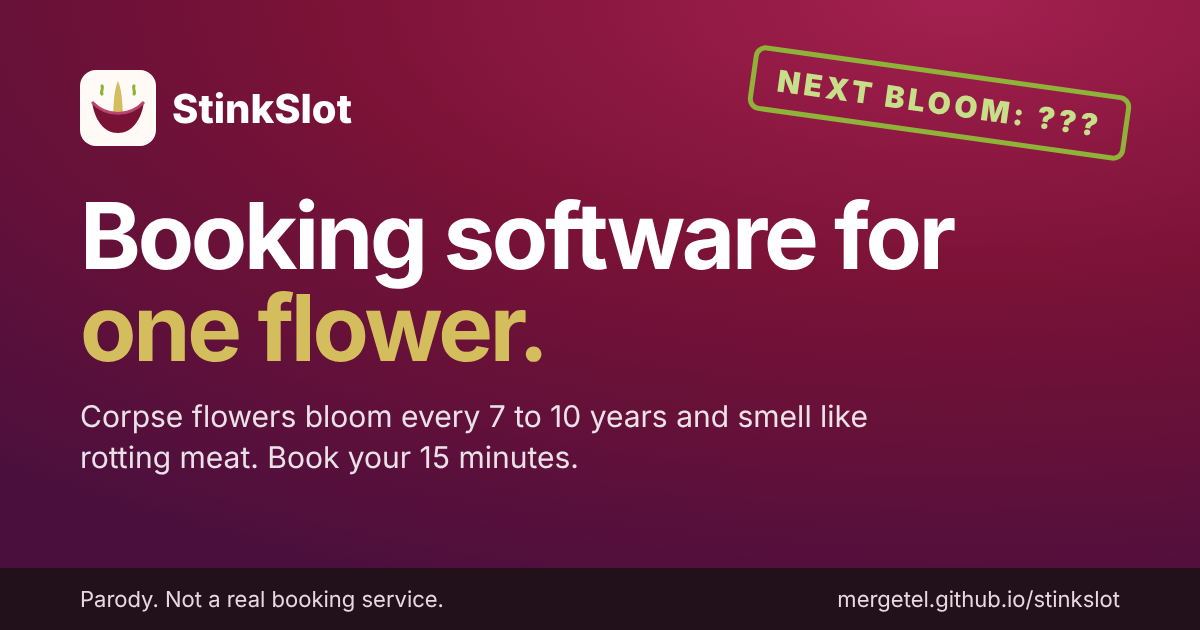
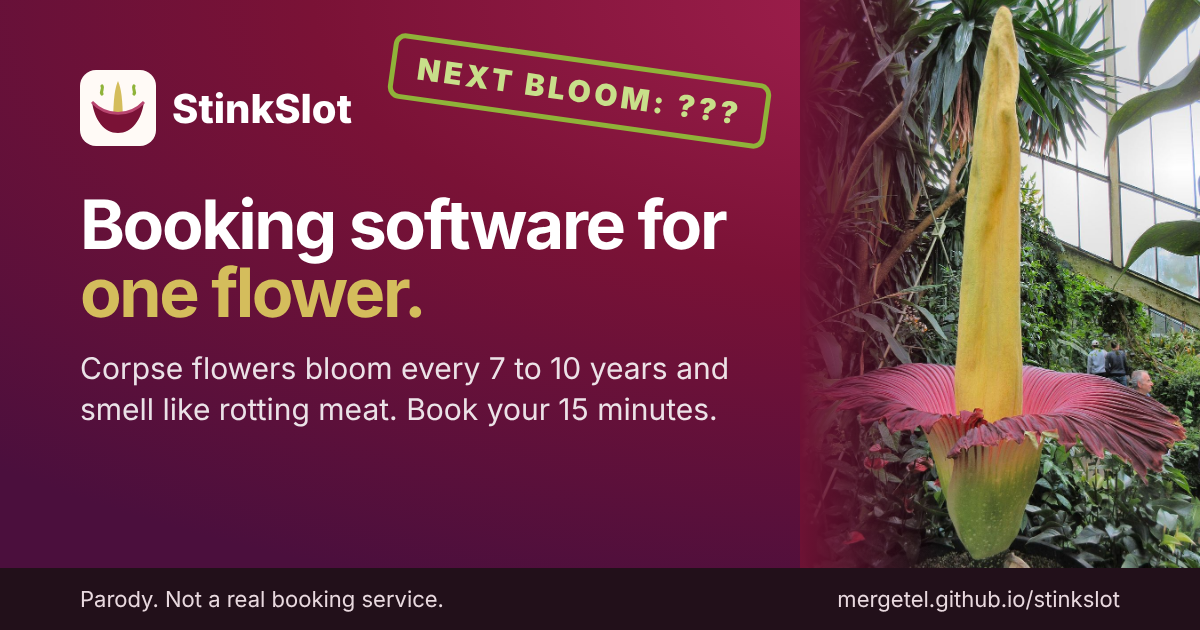
Add CC0 corpse flower photos from Wikimedia Commons
Hero, booking banner, How it works cards, the status page leaf incident and
the share image now use real photos. The footer and README credit each one.

Claude-Session: https://claude.ai/code/session_01SSK7fZCV5KX3RoiVLQUKzE

diff --git a/index.html b/index.html
@@ -14,8 +14,15 @@
 <link rel="stylesheet" href="assets/site.css">
 <style>
   .hero { padding: 64px 0 40px; }
-  .hero-grid { display: grid; grid-template-columns: 1.15fr .85fr; gap: 40px; align-items: center; }
+  .hero-grid { display: grid; grid-template-columns: 1.1fr .9fr; gap: 56px; align-items: center; }
   .hero .ctas { display: flex; flex-wrap: wrap; gap: 12px; }
+
+  /* Hero photo */
+  .hero-art { position: relative; }
+  .hero-photo { position: relative; margin: 0; }
+  .hero-photo img { display: block; width: 100%; height: auto; aspect-ratio: 2 / 3; object-fit: cover; object-position: 50% 50%; border-radius: 24px; box-shadow: 0 30px 60px rgba(75, 15, 61, .22); }
+  .not-barb { position: absolute; top: 14px; right: 14px; padding: 5px 11px; border-radius: 999px; background: rgba(255, 250, 246, .92); color: var(--text); font-size: 13px; font-weight: 600; }
+  .hero .live { margin-top: 36px; max-width: 560px; }
 
   /* Barb, right now */
   .live { position: relative; padding: 22px; border-radius: 22px; color: #fbeff3; background: radial-gradient(120% 90% at 50% 0%, #a3204f 0%, var(--brand) 45%, var(--brand-2) 100%); box-shadow: 0 30px 60px rgba(75, 15, 61, .28); overflow: hidden; }
@@ -32,6 +39,11 @@
   .live dd { margin: 2px 0 0; font-weight: 700; font-variant-numeric: tabular-nums; }
   .live dd small { display: block; font-weight: 500; opacity: .7; font-size: 12.5px; }
   .live .fine { color: rgba(251, 239, 243, .7); margin: 0; }
+
+  /* The view */
+  .view { margin: 0 0 28px; position: relative; }
+  .view img { display: block; width: 100%; height: auto; aspect-ratio: 21 / 8; object-fit: cover; border-radius: 22px; }
+  .view figcaption { position: absolute; left: 16px; bottom: 14px; padding: 6px 12px; border-radius: 10px; background: rgba(34, 16, 26, .72); color: #fff; font-size: 14px; }
 
   /* Logos */
   .logos { padding: 28px 0 12px; }
@@ -89,6 +101,8 @@
 
   /* Steps, features */
   .g4 { grid-template-columns: repeat(4, 1fr); }
+  .step { overflow: hidden; }
+  .step img { display: block; height: auto; max-width: none; width: calc(100% + 48px); margin: -24px -24px 18px; aspect-ratio: 4 / 3; object-fit: cover; }
   .step .n { display: grid; place-items: center; width: 36px; height: 36px; margin-bottom: 14px; border-radius: 10px; background: var(--soft); border: 1px solid var(--line); font-weight: 800; color: var(--brand); }
   .feat .ico { font-size: 22px; margin-bottom: 10px; }
   .feat p, .step p { margin: 0; color: var(--muted); }
@@ -134,6 +148,9 @@
 
   @media (max-width: 960px) {
     .hero-grid, .book-inner, .api { grid-template-columns: minmax(0, 1fr); }
+    .hero-art { max-width: 520px; margin: 0 auto; width: 100%; }
+    .hero-photo img { aspect-ratio: 4 / 5; object-position: 50% 85%; }
+    .view img { aspect-ratio: 16 / 9; }
     .book-cal { border-right: 0; border-bottom: 1px solid var(--line); }
     .g4 { grid-template-columns: repeat(2, 1fr); }
     .forecast { grid-template-columns: repeat(4, 1fr); }
@@ -163,8 +180,6 @@
           <a class="btn btn-primary" href="#book">Book a viewing</a>
           <a class="btn" href="pricing/">See pricing</a>
         </div>
-      </div>
-
       <aside class="live" aria-labelledby="live-h">
         <div class="live-top">
           <b id="live-h">Barb, right now</b>
@@ -180,6 +195,14 @@
           <div><dt>Current form</dt><dd>One leaf, <span id="leaf">4.1</span> m<small>The leaf is not bookable</small></dd></div>
         </dl>
       </aside>
+      </div>
+
+      <div class="hero-art">
+      <figure class="hero-photo">
+        <img src="assets/photos/bloom.jpg" width="900" height="1349" alt="A corpse flower in full bloom: a tall pale yellow spadix rising out of a frilled spathe, green outside and deep pink inside, in a glasshouse">
+        <span class="not-barb">Not actually Barb</span>
+      </figure>
+      </div>
     </div>
   </section>
 
@@ -202,6 +225,11 @@
         <h2>Fifteen minutes. Two meters from the spadix.</h2>
         <p class="lede">Pick everything except the date. Barb picks the date.</p>
       </div>
+
+      <figure class="view">
+        <img src="assets/photos/spadix.jpg" width="1280" height="615" loading="lazy" alt="Looking down into an open corpse flower: a thick yellow spadix in the middle of a ribbed, deep pink spathe">
+        <figcaption>The view from 0.5 m. Morgue tier only.</figcaption>
+      </figure>
 
       <div class="book">
         <form class="book-inner" id="form" autocomplete="off">
@@ -283,10 +311,10 @@
         <h2>Set it up in an afternoon. Use it in 2029.</h2>
       </div>
       <div class="grid g4" style="margin-top:32px">
-        <div class="card step"><div class="n">1</div><h3>Connect your flower</h3><p>Install a StinkSync sensor. It's a tape measure and a volunteer who checks it every morning.</p></div>
-        <div class="card step"><div class="n">2</div><h3>Wait 7 to 10 years</h3><p>StinkSlot handles the waiting. Honestly, the waiting is most of the product.</p></div>
-        <div class="card step"><div class="n">3</div><h3>Get paged at 3am</h3><p>When the spathe opens, every booking gets a text at once, ranked by stench tolerance.</p></div>
-        <div class="card step"><div class="n">4</div><h3>Run the line</h3><p>Two thousand people show up with their phones out. Each one gets 15 minutes and a clothespin.</p></div>
+        <div class="card step"><img src="assets/photos/measure.jpg" width="640" height="853" loading="lazy" style="object-position:50% 45%" alt="An open corpse flower in a pot, with a measuring stick standing next to it"><div class="n">1</div><h3>Connect your flower</h3><p>Install a StinkSync sensor. It's a tape measure and a volunteer who checks it every morning.</p></div>
+        <div class="card step"><img src="assets/photos/leaf.jpg" width="640" height="853" loading="lazy" style="object-position:50% 30%" alt="A corpse flower in its leaf stage: one tall stalk with a spreading canopy of leaflets, like a small tree"><div class="n">2</div><h3>Wait 7 to 10 years</h3><p>StinkSlot handles the waiting. Honestly, the waiting is most of the product.</p></div>
+        <div class="card step"><img src="assets/photos/thermal.jpg" width="640" height="426" loading="lazy" alt="A hand holding a thermal camera pointed at a blooming corpse flower, the screen reading 40.7 degrees Celsius"><div class="n">3</div><h3>Get paged at 3am</h3><p>When the spadix heats up past 36 °C, every booking gets a text at once, ranked by stench tolerance.</p></div>
+        <div class="card step"><img src="assets/photos/frill.jpg" width="640" height="424" loading="lazy" alt="Close-up of the base of a corpse flower spadix inside the purple, frilled spathe"><div class="n">4</div><h3>Run the line</h3><p>Two thousand people show up with their phones out. Each one gets 15 minutes and a clothespin.</p></div>
       </div>
     </div>
   </section>

diff --git a/status/index.html b/status/index.html
@@ -37,6 +37,11 @@
   .inc ol { margin: 12px 0 0; padding: 0; list-style: none; display: grid; gap: 10px; }
   .inc li b { display: inline-block; min-width: 100px; }
   .inc li span { color: var(--muted); font-size: 14px; margin-left: 6px; }
+  .inc-fig { float: right; width: 190px; margin: 0 0 12px 20px; }
+  .inc-fig img { display: block; width: 100%; height: auto; aspect-ratio: 3 / 4; object-fit: cover; border-radius: 12px; }
+  .inc-fig figcaption { margin-top: 4px; color: var(--muted); font-size: 13px; text-align: center; }
+  .inc { overflow: hidden; }
+  @media (max-width: 560px) { .inc-fig { float: none; width: 100%; margin: 12px 0; } .inc-fig img { aspect-ratio: 4 / 3; } }
   .sev { display: inline-block; margin-left: 8px; padding: 2px 8px; border-radius: 999px; font-size: 12px; font-weight: 700; vertical-align: 3px; }
   .sev.major { background: #f6dbe3; color: var(--brand); }
   .sev.minor { background: #f6ecd2; color: #8a6210; }
@@ -58,6 +63,10 @@
     <h2 id="past">Past incidents</h2>
 
     <article class="inc">
+      <figure class="inc-fig">
+        <img src="../assets/photos/leaf.jpg" width="640" height="853" loading="lazy" alt="A corpse flower in its leaf stage: one tall stalk with a canopy of leaflets">
+        <figcaption>Not a bloom. Please stop booking it.</figcaption>
+      </figure>
       <h3>Leaf mistaken for bloom <span class="sev minor">Minor</span></h3>
       <time datetime="2025-07-01">July 1, 2025</time>
       <ol>

diff --git a/assets/site.js b/assets/site.js
@@ -52,6 +52,7 @@ window.SITE = 'mergetel.github.io/stinkslot';
         </section>
         <div class="footbar">
           <p>StinkSlot is a parody. Barb, the conservatories, the people and the quotes are made up. Corpse flowers are real, and they really do smell like that.</p>
+          <p class="credits">The photos are real corpse flowers, none of them Barb, all CC0 from Wikimedia Commons: Kew by <a href="https://commons.wikimedia.org/wiki/File:Titan_arum_flowering,_Princess_of_Wales_Conservatory,_Kew.jpg">AndyScott</a> and <a href="https://commons.wikimedia.org/wiki/File:Titan_arum_at_Kew_Gardens_in_leaf_cycle.jpg">Mooyah</a>, Meise by <a href="https://commons.wikimedia.org/wiki/File:Amorphophallus_titanum_at_Meise_Botanic_Garden_in_2024.jpg">Orbicule</a>, Warsaw by <a href="https://commons.wikimedia.org/wiki/File:Measuring_temperature_of_a_blooming_Amorphophallus_titanum_3.jpg">Olaf</a>, Bayreuth by <a href="https://commons.wikimedia.org/wiki/File:Titan_Arum_at_Bayreuth_University_-_Second_Day_1.JPG">Fbianh</a>.</p>
           <p><a href="${BASE}pricing/">Pricing</a> · <a href="${BASE}status/">Status</a> · <a href="https://merge.tel">merge.tel</a></p>
         </div>
       </div>`;

diff --git a/assets/site.css b/assets/site.css
@@ -75,6 +75,7 @@ section.block.soft { background: var(--soft); border-top: 1px solid var(--line);
 .john p { margin: 0 0 12px; }
 .footbar { display: flex; flex-wrap: wrap; justify-content: space-between; gap: 8px 24px; padding: 20px 0 32px; border-top: 1px solid var(--line); color: var(--muted); font-size: 14px; }
 .footbar p { margin: 0; }
+.footbar .credits { flex-basis: 100%; order: 3; font-size: 13px; }
 
 /* Modal */
 dialog { width: min(480px, calc(100vw - 32px)); padding: 0; border: 1px solid var(--line); border-radius: 20px; box-shadow: 0 30px 80px rgba(60, 10, 30, .3); }

diff --git a/README.md b/README.md
@@ -16,6 +16,7 @@ It's a parody, and a satire site for [merge.tel](https://merge.tel), which reads
 | `404.html` | This page is dormant |
 | `assets/site.js` | The domain constant, Barb's bloom dates, and the nav and the "Why this exists" footer every page shares |
 | `assets/og.png` | The 1200x630 share image, with a "Parody" strip in the PNG |
+| `assets/photos/` | Real corpse flower photos, all CC0. See Photos below |
 | `.github/workflows/pages.yml` | Publishes the site to GitHub Pages |
 
 There's no build step, no framework, no database and no `package.json`. Nothing on the site sends data anywhere.
@@ -42,6 +43,21 @@ The address lives in the `window.SITE` line at the top of `assets/site.js`. The 
 
 `window.BARB` in `assets/site.js` holds the last bloom (March 2, 2021) and the next window (March 2028 to March 2031). The calendar, the `.ics` download and the "days dormant" counters all read it.
 
+## Photos
+
+Every photo is a real corpse flower from Wikimedia Commons, released under CC0, so the site needs no permission or attribution. It credits them in the footer anyway. None of them is Barb, and the hero photo carries a "Not actually Barb" tag.
+
+| File | Shows | Photographer | Source |
+|---|---|---|---|
+| `bloom.jpg` | Full bloom, Princess of Wales Conservatory, Kew | AndyScott | [Commons](https://commons.wikimedia.org/wiki/File:Titan_arum_flowering,_Princess_of_Wales_Conservatory,_Kew.jpg) |
+| `spadix.jpg` | Looking down into an open bloom, Kew (cropped) | AndyScott | [Commons](https://commons.wikimedia.org/wiki/File:Titan_arum_flower_from_above,_Princess_of_Wales_Conservatory,_Kew.jpg) |
+| `measure.jpg` | Open bloom beside a measuring stick, Meise Botanic Garden | Orbicule | [Commons](https://commons.wikimedia.org/wiki/File:Amorphophallus_titanum_at_Meise_Botanic_Garden_in_2024.jpg) |
+| `leaf.jpg` | The leaf stage, Kew | Mooyah | [Commons](https://commons.wikimedia.org/wiki/File:Titan_arum_at_Kew_Gardens_in_leaf_cycle.jpg) |
+| `thermal.jpg` | A thermal camera on a bloom, University of Warsaw Botanic Garden | Olaf | [Commons](https://commons.wikimedia.org/wiki/File:Measuring_temperature_of_a_blooming_Amorphophallus_titanum_3.jpg) |
+| `frill.jpg` | Spadix and spathe close up, Bayreuth University | Fbianh | [Commons](https://commons.wikimedia.org/wiki/File:Titan_Arum_at_Bayreuth_University_-_Second_Day_1.JPG) |
+
+They were downloaded at Wikimedia's standard thumbnail sizes and recompressed to JPEG at 640 to 1280 px wide. A replacement has to be public domain or CC0 too. A CC BY-SA photo would bring share-alike terms with it.
+
 ## Rules
 
-Everything on the site is made up, including Barb, the conservatories, the people and the quotes. None of them is meant to be a real one. The corpse flower facts are real: the bloom cycle, the 36 hour window, the spadix heating to about body temperature, and the dimethyl trisulfide. The share image carries a "Parody" strip inside the PNG, so a cropped screenshot still says it's a joke. Nothing on the site collects anything.
+Everything on the site is made up, including Barb, the conservatories, the people and the quotes, except the photos, which are real flowers at real gardens. None of them is meant to be a real one. The corpse flower facts are real: the bloom cycle, the 36 hour window, the spadix heating to about body temperature, and the dimethyl trisulfide. The share image carries a "Parody" strip inside the PNG, so a cropped screenshot still says it's a joke. Nothing on the site collects anything.
